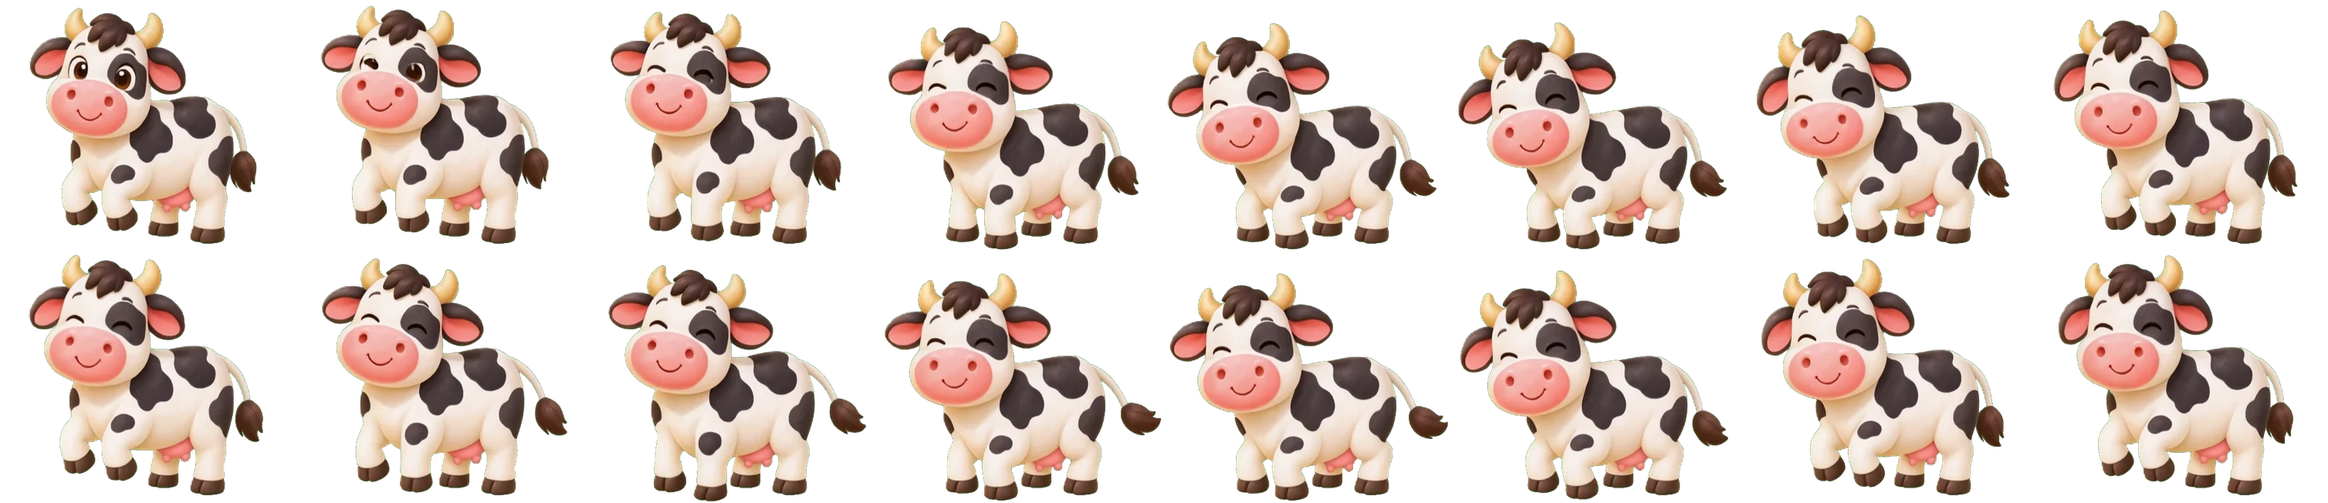
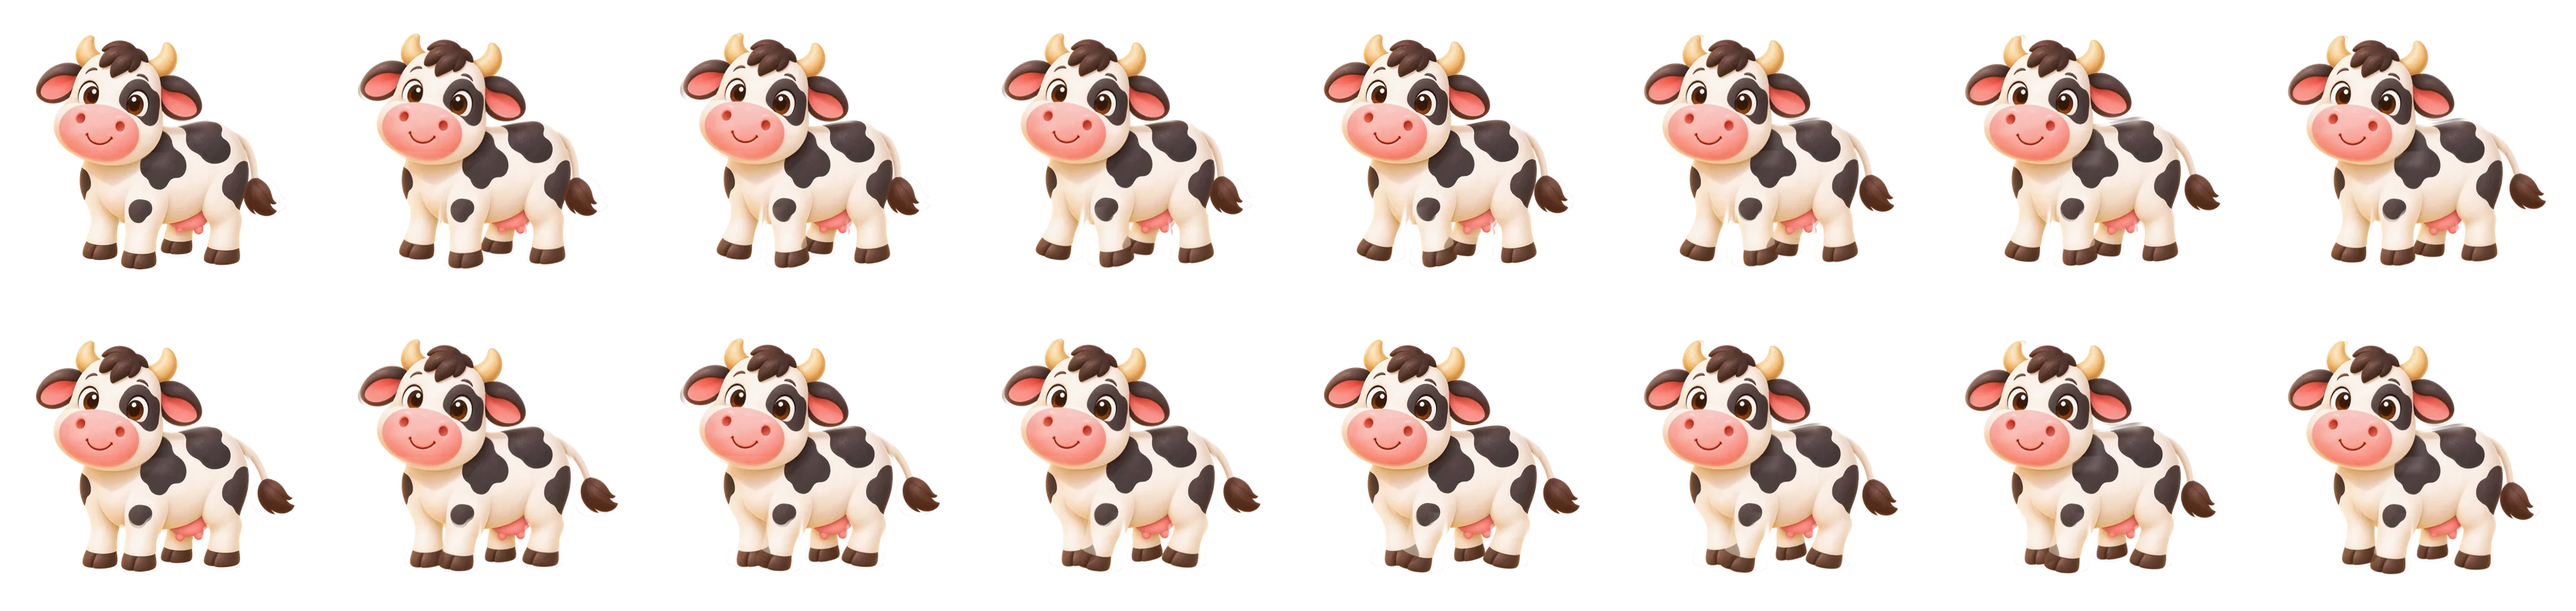
v0.14: puppet animation - walking, standing (breathing, head and tail) and happy jumps for cow, pig, puppy, kitten, duck; cow keeps its video jump; animals stay clear of the room buttons
Claude-Session: https://claude.ai/code/session_01WCNo3FhgybRF5ZdEUJcMvy

diff --git a/src/art/sprites.ts b/src/art/sprites.ts
@@ -30,8 +30,29 @@ export const url = (name: string) => `art/${name}.webp`;
 export interface Clip { src: string; cols: number; n: number; cw: number; ch: number; fps: number; ax: number; ay: number; stand: number }
 export const ANIM: Record<string, Partial<Record<'walk' | 'happy' | 'idle' | 'eat' | 'sleep', Clip>>> = {
   cow: {
-    walk: { src: 'anim/cow-walk.webp', cols: 8, n: 16, cw: 377, ch: 326, fps: 15, ax: 183.3, ay: 322.5, stand: 300 },
-    happy: { src: 'anim/cow-happy.webp', cols: 8, n: 22, cw: 380, ch: 432, fps: 15, ax: 188.6, ay: 428.9, stand: 300 }
+    walk: { src: 'anim/cow-walk.webp', cols: 8, n: 16, cw: 417, ch: 396, fps: 15, ax: 208.5, ay: 346.6, stand: 300 },
+    happy: { src: 'anim/cow-happy.webp', cols: 8, n: 22, cw: 380, ch: 432, fps: 15, ax: 188.6, ay: 428.9, stand: 300 },
+    idle: { src: 'anim/cow-idle.webp', cols: 8, n: 36, cw: 417, ch: 396, fps: 15, ax: 208.5, ay: 346.6, stand: 300 }
+  },
+  pig: {
+    walk: { src: 'anim/pig-walk.webp', cols: 8, n: 16, cw: 402, ch: 393, fps: 15, ax: 201.0, ay: 346.2, stand: 300 },
+    happy: { src: 'anim/pig-happy.webp', cols: 8, n: 22, cw: 402, ch: 393, fps: 15, ax: 201.0, ay: 346.2, stand: 300 },
+    idle: { src: 'anim/pig-idle.webp', cols: 8, n: 36, cw: 402, ch: 393, fps: 15, ax: 201.0, ay: 346.2, stand: 300 }
+  },
+  puppy: {
+    walk: { src: 'anim/puppy-walk.webp', cols: 8, n: 16, cw: 365, ch: 393, fps: 15, ax: 182.5, ay: 346.2, stand: 300 },
+    happy: { src: 'anim/puppy-happy.webp', cols: 8, n: 22, cw: 365, ch: 393, fps: 15, ax: 182.5, ay: 346.2, stand: 300 },
+    idle: { src: 'anim/puppy-idle.webp', cols: 8, n: 36, cw: 365, ch: 393, fps: 15, ax: 182.5, ay: 346.2, stand: 300 }
+  },
+  kitten: {
+    walk: { src: 'anim/kitten-walk.webp', cols: 8, n: 16, cw: 361, ch: 394, fps: 15, ax: 180.5, ay: 346.3, stand: 300 },
+    happy: { src: 'anim/kitten-happy.webp', cols: 8, n: 22, cw: 361, ch: 394, fps: 15, ax: 180.5, ay: 346.3, stand: 300 },
+    idle: { src: 'anim/kitten-idle.webp', cols: 8, n: 36, cw: 361, ch: 394, fps: 15, ax: 180.5, ay: 346.3, stand: 300 }
+  },
+  duck: {
+    walk: { src: 'anim/duck-walk.webp', cols: 8, n: 16, cw: 309, ch: 393, fps: 15, ax: 154.5, ay: 346.2, stand: 300 },
+    happy: { src: 'anim/duck-happy.webp', cols: 8, n: 22, cw: 309, ch: 393, fps: 15, ax: 154.5, ay: 346.2, stand: 300 },
+    idle: { src: 'anim/duck-idle.webp', cols: 8, n: 36, cw: 309, ch: 393, fps: 15, ax: 154.5, ay: 346.2, stand: 300 }
   }
 };
 

diff --git a/src/scene/animal.ts b/src/scene/animal.ts
@@ -59,6 +59,7 @@ export class Animal implements Interactive {
     this.place();
     objs[id] = this;
     Animal.all.add(this);
+    setTimeout(() => this.idleClip(), 50);
     // Petting: hold a finger on the animal. It closes its eyes happily, hearts float up, the kitten purrs.
     this.hold = {
       start: () => {
@@ -123,7 +124,8 @@ export class Animal implements Interactive {
     show(0);
     svg.style.display = ''; this.image.style.display = 'none';
     this.clipName = name;
-    let t = 0;
+    // Standing animals start their breathing loop at different points, so they don't move in step
+    let t = name === 'idle' ? Math.random() * c.n / c.fps * 1000 : 0;
     const tick = (dt: number) => {
       t += dt;
       let f = Math.floor(t * c.fps / 1000);
@@ -140,6 +142,7 @@ export class Animal implements Interactive {
   }
 
   setPose(p: Pose) {
+    if (p !== 'idle' && this.clipName === 'idle') this.stopClip();
     this.pose = p;
     const [pw, ph] = SIZE[`${this.kind}-${p}`];
     const w = pw * this.unit, h = ph * this.unit;
@@ -147,7 +150,12 @@ export class Animal implements Interactive {
     this.image.setAttribute('x', (-w / 2).toFixed(1)); this.image.setAttribute('y', (-h).toFixed(1));
     this.image.setAttribute('width', w.toFixed(1)); this.image.setAttribute('height', h.toFixed(1));
   }
-  private rest() { this.setPose(state.asleep ? 'sleep' : 'idle'); }
+  private rest() { this.setPose(state.asleep ? 'sleep' : 'idle'); this.idleClip(); }
+  /** Standing still: breathe, look about and swish the tail (if this animal has an idle clip). */
+  idleClip() {
+    if (state.asleep || this.pose !== 'idle' || this.clipName || this.dragging || this.petting || !this.hasClip('idle')) return;
+    this.playClip('idle', true);
+  }
 
   place() {
     this.g.setAttribute('transform', `translate(${this.x.toFixed(1)},${this.y.toFixed(1)})`);
@@ -205,7 +213,7 @@ export class Animal implements Interactive {
 }
 
 /** Put every animal to sleep or wake them all (bedtime). */
-export function allPose(p: Pose) { Animal.all.forEach(a => { if (!a.anim) a.setPose(p); }); }
+export function allPose(p: Pose) { Animal.all.forEach(a => { if (!a.anim) { a.setPose(p); a.idleClip(); } }); }
 
 /** Anything that can be fed an apple. Scene modules register a getter for their animals. */
 const feederSources: (() => (Animal | null | undefined)[])[] = [];

diff --git a/src/scene/life.ts b/src/scene/life.ts
@@ -21,7 +21,7 @@ interface Brain {
   phase: number; speed: number; swims: boolean; apple?: GroundApple; flowerTap?: () => void;
 }
 
-const YARD = { x0: 90, x1: 1510, y0: 705, y1: 870 };
+const YARD = { x0: 90, x1: 1400, y0: 705, y1: 870 };  // right edge kept clear of the room buttons
 const SPEED: Record<string, number> = { cow: 52, pig: 55, puppy: 75, kitten: 70, duck: 32 };
 const brains: Brain[] = [];
 let now = 0;
@@ -59,7 +59,7 @@ function goTo(b: Brain, x: number, y: number, goal: Goal) {
   b.a.setFacing(x < b.a.x ? -1 : 1);
   if (b.a.hasClip('walk')) b.a.playClip('walk', true);
 }
-function stopWalking(a: Animal) { a.setWalk(0, 0); if (a.hasClip('walk') && !a.anim) a.stopClip(); }
+function stopWalking(a: Animal) { a.setWalk(0, 0); if (a.hasClip('walk') && !a.anim) { a.stopClip(); a.idleClip(); } }
 function rest(b: Brain, ms: number) { b.mode = 'idle'; b.until = now + ms; stopWalking(b.a); }
 
 /** Decide what to do next. */

diff --git a/src/scene/yard.ts b/src/scene/yard.ts
@@ -17,7 +17,7 @@ export function initYard() {
     new Animal('pig', 'pig', 470, 872, 165, layer, true),
     new Animal('duck', 'duck', 785, 805, 115, layer, true),
     new Animal('puppy', 'puppy', 1150, 885, 165, layer, true),
-    new Animal('kitten', 'kitten', 1470, 845, 155, layer, true)
+    new Animal('kitten', 'kitten', 1380, 845, 155, layer, true)
   ];
   registerFeeders(() => yard);
 

diff --git a/scripts/rig/rig.py b/scripts/rig/rig.py
@@ -54,11 +54,23 @@ class Rig:
                 xs = np.where(comp.any(0))[0]
                 m |= comp
                 m[b['pivot'][1] + PAD:cut + PAD + 4, xs.min():xs.max() + 1] = True
+            if 'legbox' in b:
+                # A leg given as a box (for paws that touch their neighbour). Painted pixels go to whichever
+                # leg's centre line is nearest, so neighbouring legs split cleanly with no shared seam.
+                x0, y0, x1, y1 = b['legbox']
+                alpha = self.pre[..., 3] > 1
+                centres = [((o['legbox'][0] + o['legbox'][2]) / 2 + PAD) for o in bones if 'legbox' in o]
+                mine = (x0 + x1) / 2 + PAD
+                dist = np.abs(self.xx - mine)
+                nearest = np.all([dist <= np.abs(self.xx - c) for c in centres], axis=0)
+                rows = np.zeros_like(alpha); rows[y0 + PAD:y1 + PAD + 6, :] = True
+                m |= ndimage.binary_dilation(alpha & rows & nearest, iterations=3) & nearest   # keep the soft edge too
             if 'tail' in b:
                 # A tail: the painted shape right of `cut` that contains the seed point
                 sx, sy, cut = b['tail']
                 alpha = self.pre[..., 3] > 100
                 right = alpha.copy(); right[:, :cut + PAD] = False
+                if 'tail_ymax' in b: right[b['tail_ymax'] + PAD:] = False
                 lab, _ = ndimage.label(right)
                 m |= ndimage.binary_dilation(lab == lab[sy + PAD, sx + PAD], iterations=3)
             w = soft(m, b.get('blur', 10))
@@ -91,10 +103,14 @@ class Rig:
                 off = np.array([py, px]) - M @ np.array([py + ty, px + tx])
                 layer = np.stack([ndimage.affine_transform(layer[..., c], M, offset=off, order=1) for c in range(4)], -1)
             acc += layer
-        bx, by, scx, scy = pose.get('body', (0, 0, 1, 1))
-        if (bx, by, scx, scy) != (0, 0, 1, 1):
+        body = tuple(pose.get('body', (0, 0, 1, 1))) + (0,)
+        bx, by, scx, scy, br = body[:5]
+        if (bx, by, scx, scy, br) != (0, 0, 1, 1, 0):
             fx, fy = self.w / 2, self.h - PAD
-            M = np.array([[1 / scy, 0], [0, 1 / scx]])
+            Ri = rot(-br)                                       # waddle: lean around the feet
+            S = np.array([[1 / scy, 0], [0, 1 / scx]])
+            Rrc = np.array([[Ri[1, 1], Ri[1, 0]], [Ri[0, 1], Ri[0, 0]]])
+            M = S @ Rrc
             off = np.array([fy, fx]) - M @ np.array([fy + by, fx + bx])
             acc = np.stack([ndimage.affine_transform(acc[..., c], M, offset=off, order=1) for c in range(4)], -1)
         # Where two shares overlap after moving, keep the colour and cap the coverage (no over-bright patches)
@@ -181,6 +197,85 @@ def cow():
     return clips
 
 
+# ---------- the other animals: same three clips from a description of their parts ----------
+FOUR = dict(
+    pig=dict(feet=519, bones=[
+        dict(name='leg0', leg=(150, 480, 443), pivot=(152, 395), fade=(0, 1), fadelen=40, blur=2),
+        dict(name='leg1', leg=(243, 490, 443), pivot=(243, 400), fade=(0, 1), fadelen=40, blur=2),
+        dict(name='leg2', leg=(330, 470, 443), pivot=(331, 410), fade=(0, 1), fadelen=30, blur=2),
+        dict(name='leg3', leg=(423, 480, 443), pivot=(423, 395), fade=(0, 1), fadelen=40, blur=2),
+        dict(name='head', boxes=[(0, 0, 330, 300)], pivot=(190, 320), fade=(0, -1), fadelen=40, blur=8),
+        dict(name='tail', tail=(505, 230, 468), pivot=(470, 255), fade=(1, 0), fadelen=12, blur=2)]),
+    puppy=dict(feet=519, bones=[
+        dict(name='leg0', legbox=(58, 372, 165, 512), pivot=(112, 375), fade=(0, 1), fadelen=40, blur=2),
+        dict(name='leg1', legbox=(165, 392, 262, 520), pivot=(212, 392), fade=(0, 1), fadelen=40, blur=2),
+        dict(name='leg2', legbox=(262, 425, 332, 498), pivot=(296, 425), fade=(0, 1), fadelen=25, blur=2),
+        dict(name='leg3', legbox=(332, 372, 430, 508), pivot=(380, 372), fade=(0, 1), fadelen=40, blur=2),
+        dict(name='head', boxes=[(0, 0, 402, 292)], pivot=(210, 312), fade=(0, -1), fadelen=40, blur=8),
+        dict(name='tail', tail=(440, 260, 405), tail_ymax=335, pivot=(405, 325), fade=(1, 0), fadelen=12, blur=2)]),
+    kitten=dict(feet=518, bones=[
+        dict(name='leg0', legbox=(55, 362, 152, 515), pivot=(104, 365), fade=(0, 1), fadelen=40, blur=2),
+        dict(name='leg1', legbox=(152, 382, 252, 518), pivot=(200, 382), fade=(0, 1), fadelen=40, blur=2),
+        dict(name='leg2', legbox=(252, 420, 303, 502), pivot=(278, 420), fade=(0, 1), fadelen=25, blur=2),
+        dict(name='leg3', legbox=(303, 378, 392, 508), pivot=(348, 378), fade=(0, 1), fadelen=40, blur=2),
+        dict(name='head', boxes=[(0, 0, 372, 296)], pivot=(200, 318), fade=(0, -1), fadelen=40, blur=8),
+        dict(name='tail', tail=(430, 230, 352), tail_ymax=345, pivot=(360, 335), fade=(1, 0), fadelen=14, blur=2)]),
+)
+TWO = dict(
+    duck=dict(feet=519, bones=[
+        dict(name='leg0', leg=(92, 490, 455), pivot=(105, 440), fade=(0, 1), fadelen=20, blur=2),
+        dict(name='leg1', leg=(222, 495, 455), pivot=(215, 440), fade=(0, 1), fadelen=20, blur=2),
+        dict(name='head', boxes=[(0, 0, 300, 240)], pivot=(165, 265), fade=(0, -1), fadelen=40, blur=8)]),
+)
+
+
+def animal(kind):
+    cfg = {**FOUR, **TWO}[kind]
+    rig = Rig(Image.open(f'public/art/{kind}-idle.webp'), cfg['bones'])
+    two = kind in TWO
+    feet = cfg['feet']
+    clips = {}
+    lift = lambda v: -max(0, v) * 6
+
+    fr = []
+    for i in range(16):
+        p = i / 16 * 2 * math.pi
+        s_, c = math.sin(p), math.cos(p)
+        pose = {'head': (2.2 * math.sin(2 * p), 0, -2 * abs(c)), 'tail': (12 * math.sin(p + 1), 0, 0)}
+        if two:      # waddle: legs alternate, body leans side to side
+            pose.update({'leg0': (16 * s_, 0, lift(c)), 'leg1': (-16 * s_, 0, lift(-c)), 'body': (0, -3 * abs(s_), 1, 1, 4 * s_)})
+        else:        # diagonal pairs: 0 with 2, 1 with 3
+            pose.update({'leg0': (12 * s_, 0, lift(c)), 'leg2': (10 * s_, 0, lift(c)),
+                         'leg1': (-12 * s_, 0, lift(-c)), 'leg3': (-10 * s_, 0, lift(-c)),
+                         'body': (0, -4 * abs(s_), 1, 1)})
+        fr.append(rig.frame(pose))
+    clips['walk'] = sheet(fr, f'{kind}-walk', feet, feet)
+
+    fr = []
+    n = 22
+    for i in range(n):
+        t = i / (n - 1)
+        if t < .18: k = t / .18; hop, sx, sy, leg = 0, 1 + .06 * k, 1 - .08 * k, 0
+        elif t < .62: k = (t - .18) / .44; hop = -70 * math.sin(math.pi * k); sx, sy = .97, 1.05; leg = 16 * math.sin(math.pi * k)
+        elif t < .76: k = (t - .62) / .14; hop, sx, sy, leg = 0, 1 + .07 * math.sin(math.pi * k), 1 - .09 * math.sin(math.pi * k), 0
+        else: hop, sx, sy, leg = 0, 1, 1, 0
+        pose = {'head': (4 * math.sin(t * math.pi * 3), 0, 0), 'tail': (18 * math.sin(t * math.pi * 6), 0, 0),
+                'leg0': (leg, 0, 0), 'leg1': (-leg, 0, 0), 'leg2': (-leg * .7, 0, 0), 'leg3': (leg * .7, 0, 0),
+                'body': (0, hop, sx, sy)}
+        fr.append(rig.frame(pose))
+    clips['happy'] = sheet(fr, f'{kind}-happy', feet, feet)
+
+    fr = []
+    for i in range(36):
+        p = i / 36 * 2 * math.pi
+        fr.append(rig.frame({'head': (2 * math.sin(p), 0, 1.2 * math.sin(2 * p)), 'tail': (12 * math.sin(p * 2), 0, 0),
+                             'body': (0, 0, 1 - .012 * math.sin(2 * p), 1 + .018 * math.sin(2 * p))}))
+    clips['idle'] = sheet(fr, f'{kind}-idle', feet, feet)
+    return clips
+
+
 if __name__ == '__main__':
-    which = sys.argv[1] if len(sys.argv) > 1 else 'cow'
-    print(json.dumps({which: {'cow': cow}[which]()}, indent=1))
+    out = {}
+    for which in (sys.argv[1:] or ['cow']):
+        out[which] = cow() if which == 'cow' else animal(which)
+    print(json.dumps(out, indent=1))
